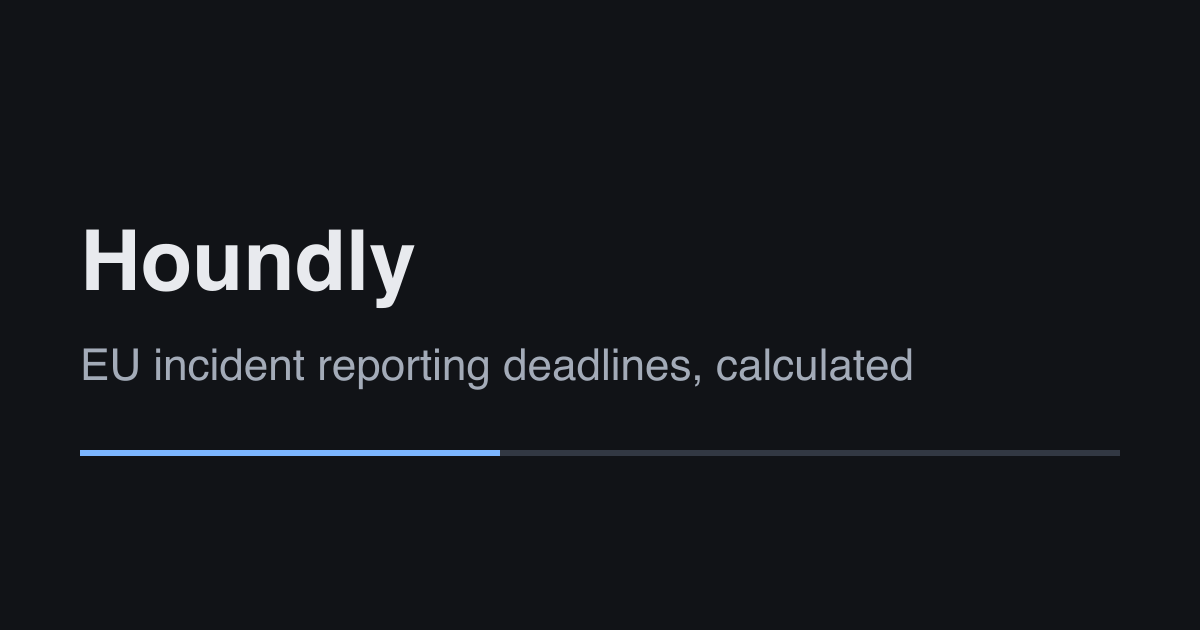
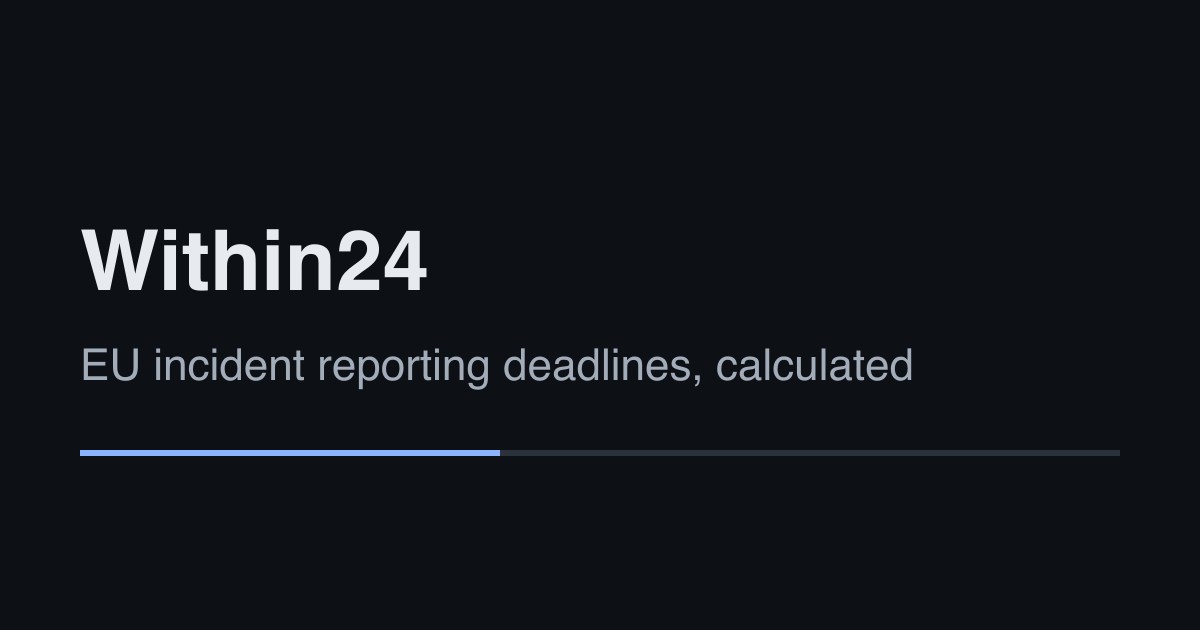
chore: rename the brand from Houndly to Within24
- src/config/site.ts: name Within24 (og:site_name, titles, footer ©, OG image alt), legal
  notice email hello@within24.app; site URL fallback stays a placeholder (production sets
  PUBLIC_SITE_URL=https://within24.app)
- .ics: PRODID -//Within24//Deadline calculator//EN; UID host from the site URL instead
  of the page's host
- Kit file renamed to within24-incident-kit.zip (same random folder), placeholder text updated
- OG image regenerated with the new name (current dark-theme colours)
- Copy, tests, CLAUDE.md and README updated; infrastructure names (repository, package
  name, Cloudflare Pages project houndly-landing) unchanged

Changed region(s): [[0.0617, 0.3619, 0.37, 0.4825]]

diff --git a/src/i18n/en.ts b/src/i18n/en.ts
@@ -35,7 +35,7 @@ export const en = {
   },
   bridge: {
     heading: 'Deadlines calculated. Who wakes up at 3 a.m.?',
-    intro: 'Houndly keeps these clocks running for your team.',
+    intro: 'Within24 keeps these clocks running for your team.',
     steps: [
       'Log the incident once. Every legal clock that applies starts.',
       'Before each deadline, the on-call person is alerted until someone acknowledges.',
@@ -123,7 +123,7 @@ export const en = {
     description:
       'Plans for teams that must report CRA, NIS2 and GDPR incidents on time. Early access: no payment is taken.',
     intro:
-      'Houndly is in early access. Choose the plan that fits and leave your email: we contact you before launch, and you decide then whether to buy.',
+      'Within24 is in early access. Choose the plan that fits and leave your email: we contact you before launch, and you decide then whether to buy.',
     perMonth: '/ month',
     free: 'Free',
     noPayment: 'Early access. No payment is taken.',
@@ -170,7 +170,7 @@ export const en = {
     },
     confirmed: {
       title: "You're on the early-access list",
-      description: 'Your email address is confirmed for Houndly early access.',
+      description: 'Your email address is confirmed for Within24 early access.',
       body: "Thank you. We'll contact you before launch.",
       back: 'Back to the deadline calculator',
     },
@@ -194,7 +194,7 @@ export const en = {
   },
   privacy: {
     title: 'Privacy policy',
-    description: 'How Houndly handles data from the calculator, analytics and the sign-up forms.',
+    description: 'How Within24 handles data from the calculator, analytics and the sign-up forms.',
     lastUpdated: 'Last updated',
     notYet: 'not yet published',
     placeholder: 'This section will be completed before launch.',

diff --git a/src/components/calculator/Calculator.tsx b/src/components/calculator/Calculator.tsx
@@ -5,7 +5,7 @@
 
 import { useEffect, useId, useRef, useState } from 'react';
 import { DateTime } from 'luxon';
-import { site } from '../../config/site';
+import { site, siteUrl } from '../../config/site';
 import { fill, t } from '../../i18n';
 import type { Locale } from '../../i18n/config';
 import { track } from '../../lib/analytics';
@@ -178,7 +178,8 @@ export default function Calculator({ locale }: Props) {
   const icsEvent = (row: DeadlineRow & { status: 'due' }, url: string): IcsEvent => {
     const name = `${deadlineName(row)} (${s.eventTypes[row.rule.event_type].toLowerCase()})`;
     return {
-      uid: `${row.rule.id}.${icsDate(row.dueAt)}.${shortHash(query)}@${window.location.host}`,
+      // UID host follows the configured site URL (PUBLIC_SITE_URL), not the host it runs on.
+      uid: `${row.rule.id}.${icsDate(row.dueAt)}.${shortHash(query)}@${new URL(siteUrl()).host}`,
       at: row.dueAt,
       summary: fill(s.ics.summary, { deadline: name }),
       description: [
@@ -199,7 +200,7 @@ export default function Calculator({ locale }: Props) {
       selection.map((r) => icsEvent(r, url)),
       {
         now: formatInstant(DateTime.utc()),
-        prodId: `-//${site.name}//Deadline calculator ${version}//EN`,
+        prodId: `-//${site.name}//Deadline calculator//EN`,
       },
     );
     const day = icsDate(selection[0]?.dueAt ?? '').slice(0, 8);

diff --git a/src/config/site.ts b/src/config/site.ts
@@ -1,4 +1,4 @@
-// Brand and site identity. "Houndly" is a working codename: rename it here only.
+// Brand and site identity. Change the brand here only.
 
 import { parseAllowIndexing } from './indexing.ts';
 
@@ -10,12 +10,12 @@ import { parseAllowIndexing } from './indexing.ts';
 export const PLACEHOLDER_SITE_URL = 'https://site-url-not-set.invalid';
 
 export const site = {
-  name: 'Houndly',
+  name: 'Within24',
   tagline: 'EU incident reporting deadlines, calculated',
   defaultDescription:
     'Calculate CRA, NIS2 and GDPR incident reporting deadlines in your time zone. Free, no sign-up.',
   defaultOgImage: '/og/default.png',
-  ogImageAlt: 'Houndly — EU incident reporting deadlines',
+  ogImageAlt: 'Within24 — EU incident reporting deadlines',
   twitterHandle: null as string | null,
   // Shown in Article JSON-LD on guides.
   author: { name: 'Dmytro Slobodin', url: null as string | null },
@@ -24,8 +24,7 @@ export const site = {
   operator: {
     name: 'Dmytro Slobodin',
     country: 'Ukraine',
-    // Placeholder until the production domain exists.
-    email: null as string | null,
+    email: 'hello@within24.app' as string | null,
   },
   analytics: {
     // Provider is swappable: see src/lib/analytics.ts and src/components/Analytics.astro.

diff --git a/tests/calculator/interaction.test.tsx b/tests/calculator/interaction.test.tsx
@@ -181,6 +181,7 @@ describe('Calculator', () => {
     }) as typeof URL.createObjectURL;
     URL.revokeObjectURL = vi.fn();
     const click = vi.spyOn(HTMLAnchorElement.prototype, 'click').mockImplementation(() => {});
+    vi.stubEnv('PUBLIC_SITE_URL', 'https://within24.app');
     const { user } = setup('?aware=2026-10-01T09:00Z&events=cra.actively_exploited_vulnerability');
 
     await user.click(
@@ -193,6 +194,11 @@ describe('Calculator', () => {
       t.replace(/\r\n /g, ''),
     );
     expect(one?.match(/BEGIN:VEVENT/g)).toHaveLength(1);
+    expect(one).toContain('PRODID:-//Within24//Deadline calculator//EN');
+    // UID host follows PUBLIC_SITE_URL, not the host the page runs on (localhost here).
+    expect(one).toMatch(
+      /UID:cra\.actively_exploited_vulnerability\.early_warning\.20261002T090000Z\.[0-9a-f]{8}@within24\.app/,
+    );
     expect(one).toContain('DTSTART:20261002T090000Z');
     // Waiting rows are not exported.
     expect(all?.match(/BEGIN:VEVENT/g)).toHaveLength(2);
@@ -202,6 +208,7 @@ describe('Calculator', () => {
       ['ics_downloaded', { scope: 'all' }],
     ]);
     click.mockRestore();
+    vi.unstubAllEnvs();
   });
 
   it('sends calculator_calculated once, 2 s after the last change, not on load', async () => {

diff --git a/tests/jsonld.test.ts b/tests/jsonld.test.ts
@@ -8,8 +8,8 @@ const articleInput = {
   image: 'https://example.com/og/default.png',
   datePublished: new Date('2026-10-01T00:00:00Z'),
   dateModified: new Date('2026-10-10T00:00:00Z'),
-  author: { name: 'Houndly team' },
-  publisher: { name: 'Houndly', url: 'https://example.com/' },
+  author: { name: 'Within24 team' },
+  publisher: { name: 'Within24', url: 'https://example.com/' },
   inLanguage: 'en',
 };
 
@@ -30,7 +30,7 @@ describe('JSON-LD builders', () => {
     expect(ld['@type']).toBe('Article');
     expect(ld['datePublished']).toBe('2026-10-01T00:00:00.000Z');
     expect(ld['dateModified']).toBe('2026-10-10T00:00:00.000Z');
-    expect(ld['author']).toEqual({ '@type': 'Person', name: 'Houndly team' });
+    expect(ld['author']).toEqual({ '@type': 'Person', name: 'Within24 team' });
   });
 
   it('includes the author URL when given', () => {

diff --git a/tests/calculator/ics.test.ts b/tests/calculator/ics.test.ts
@@ -43,7 +43,7 @@ describe('buildIcs', () => {
         url: 'https://example.com/?aware=2026-10-01T09:00Z&rules=v1',
       },
     ],
-    { now: '2026-10-01T10:00:00Z', prodId: '-//Houndly//Deadline calculator//EN' },
+    { now: '2026-10-01T10:00:00Z', prodId: '-//Within24//Deadline calculator//EN' },
   );
   const lines = ics.split('\r\n');
 
@@ -56,7 +56,7 @@ describe('buildIcs', () => {
     expect(lines.slice(0, 5)).toEqual([
       'BEGIN:VCALENDAR',
       'VERSION:2.0',
-      'PRODID:-//Houndly//Deadline calculator//EN',
+      'PRODID:-//Within24//Deadline calculator//EN',
       'CALSCALE:GREGORIAN',
       'METHOD:PUBLISH',
     ]);

diff --git a/tests/seo.test.ts b/tests/seo.test.ts
@@ -9,7 +9,7 @@ const base: SeoInput = {
   ogImage: '/og/default.png',
   ogImageAlt: 'alt',
   ogLocale: 'en_GB',
-  siteName: 'Houndly',
+  siteName: 'Within24',
 };
 
 describe('buildSeo', () => {

diff --git a/CLAUDE.md b/CLAUDE.md
@@ -1,6 +1,8 @@
-# Houndly — landing site (folder `landing/`, own git repository)
+# Within24 — landing site (folder `landing/`, own git repository)
 
-Houndly is a working codename. Keep the brand in one config file so it can be replaced in minutes.
+Within24 (written exactly like that) is the brand; the domain is within24.app. Keep the brand in one
+config file (`src/config/site.ts`) so it can be replaced in minutes. Infrastructure names (repository
+`houndly-landing`, Cloudflare Pages project `houndly-landing`) keep the old codename.
 
 ## Goal
 

diff --git a/README.md b/README.md
@@ -1,4 +1,4 @@
-# Houndly landing
+# Within24 landing
 
 Static marketing site (Astro). Project rules: [CLAUDE.md](CLAUDE.md). Status: [TASKS.md](TASKS.md).
 
